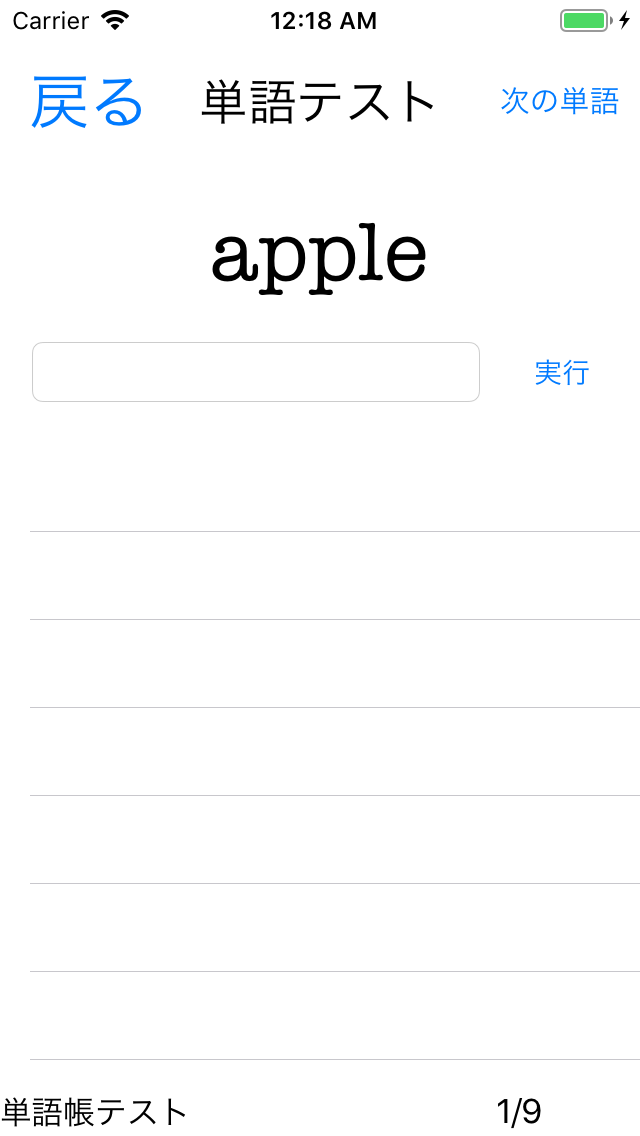
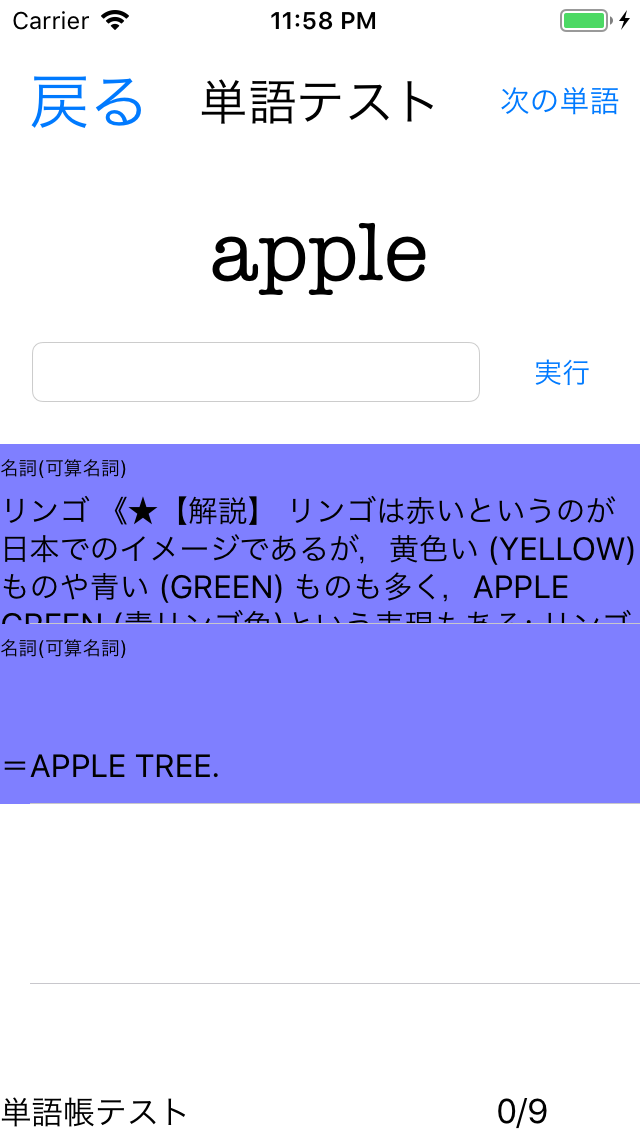
単語テスト画面のテーブルに訳文表示・次の単語ボタンクリックで次の単語表示

diff --git a/EnglishWords/EnglishWords/TestOfWordNoteBookViewController.swift b/EnglishWords/EnglishWords/TestOfWordNoteBookViewController.swift
@@ -10,15 +10,18 @@ import Foundation
 import UIKit
 import RealmSwift
 
-class TestOfWordNoteBookViewController: UIViewController {
+class TestOfWordNoteBookViewController: UIViewController, UITableViewDelegate, UITableViewDataSource  {
     
-    @IBOutlet var nowWord: UILabel!
-    @IBOutlet var nowWordNote: UILabel!
+    @IBOutlet var word: UILabel!
+    @IBOutlet var wordNote: UILabel!
     @IBOutlet var count: UILabel!
     
     @IBOutlet var table:UITableView!
 
+    var nowWord: Word?
+    var wordIdx: Int = 0
     var wordnotebook: WordNoteBook?
+    var nowWordDataList: [WordData] = []
     
     //検索条件のリスト
     var queryList: [String] = []
@@ -41,9 +44,18 @@ class TestOfWordNoteBookViewController: UIViewController {
             //検索結果無し、エラーアラート出して戻させる
             showAlert(mes: "検索結果がありません")
         }else{
-            nowWord.text = wordNoteList[0].word?.wordName
-            nowWordNote.text = wordnotebook?.wordNoteBookName
-            count.text = "1/" + wordNoteList.count.description
+            wordIdx = 0
+            nowWord = wordNoteList[wordIdx].word
+
+            word.text = wordNoteList[wordIdx].word?.wordName
+            wordNote.text = wordnotebook?.wordNoteBookName
+            count.text = wordIdx.description + "/" + wordNoteList.count.description
+
+            //選択したWordからデータベース内に保存してあるWordDataを全て取得
+            let realm: Realm = try! Realm()
+            let results = realm.objects(WordData.self).filter("word.wordName == %@",nowWord?.wordName)
+            nowWordDataList = Array(results)
+
         }
     }
     
@@ -54,6 +66,9 @@ class TestOfWordNoteBookViewController: UIViewController {
     @IBAction func buttonTapped(sender: UIButton) {
         if(sender.tag == 0){
             performSegue(withIdentifier: "returntoConfigureTestOfWordNoteBookViewController",sender: nil)
+        }else if(sender.tag == 1){
+            //次の単語へ
+            toNextWord()
         }
     }
     
@@ -63,6 +78,59 @@ class TestOfWordNoteBookViewController: UIViewController {
             let ctwnbVC: ConfigureTestOfWordNoteBookViewController = (segue.destination as? ConfigureTestOfWordNoteBookViewController)!
             ctwnbVC.wordnotebook = wordnotebook
         }
+    }
+    
+    //Table Viewのセルの数を指定
+    func tableView(_ table: UITableView,
+                   numberOfRowsInSection section: Int) -> Int {
+        return nowWordDataList.count
+    }
+    
+    //各セルの要素を設定する
+    func tableView(_ table: UITableView,
+                   cellForRowAt indexPath: IndexPath) -> UITableViewCell {
+        // tableCell の ID で UITableViewCell のインスタンスを生成
+        let cell = table.dequeueReusableCell(withIdentifier: "tablecell",
+                                             for: indexPath)
+        // Tag番号  で UILabel インスタンスの生成
+        let oneworddata = nowWordDataList[indexPath.row]
+        let partofspeech = cell.viewWithTag(1) as! UILabel
+        partofspeech.numberOfLines = 0
+        partofspeech.text = oneworddata.partofspeech?.partsOfSpeechName
+        let mean = cell.viewWithTag(2) as! UILabel
+        mean.numberOfLines = 0
+        mean.text = oneworddata.mean
+        cell.backgroundColor = UIColor(red: 0.0, green: 0.0, blue: 1.0, alpha: 0.5)
+        
+        return cell
+    }
+    
+    //次の単語へ移る
+    func toNextWord(){
+        if(wordIdx >= wordNoteList.count - 1){
+            //テスト終了
+        }else{
+            wordIdx += 1
+            nowWord = wordNoteList[wordIdx].word
+            
+            word.text = wordNoteList[wordIdx].word?.wordName
+            wordNote.text = wordnotebook?.wordNoteBookName
+            count.text = wordIdx.description + "/" + wordNoteList.count.description
+            
+            //選択したWordからデータベース内に保存してあるWordDataを全て取得
+            let realm: Realm = try! Realm()
+            let results = realm.objects(WordData.self).filter("word.wordName == %@",nowWord?.wordName)
+            nowWordDataList = Array(results)
+            
+            //テーブル更新
+            table.reloadData()
+        }
+    }
+    
+    // tableのCell の高さを１２０にする
+    func tableView(_ table: UITableView,
+                   heightForRowAt indexPath: IndexPath) -> CGFloat {
+        return 90.0
     }
     
     //アラートを出すメソッド
